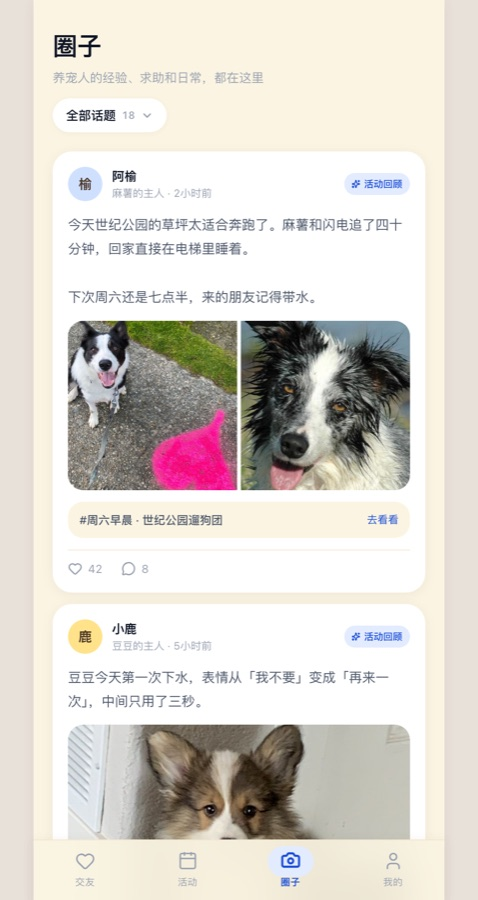
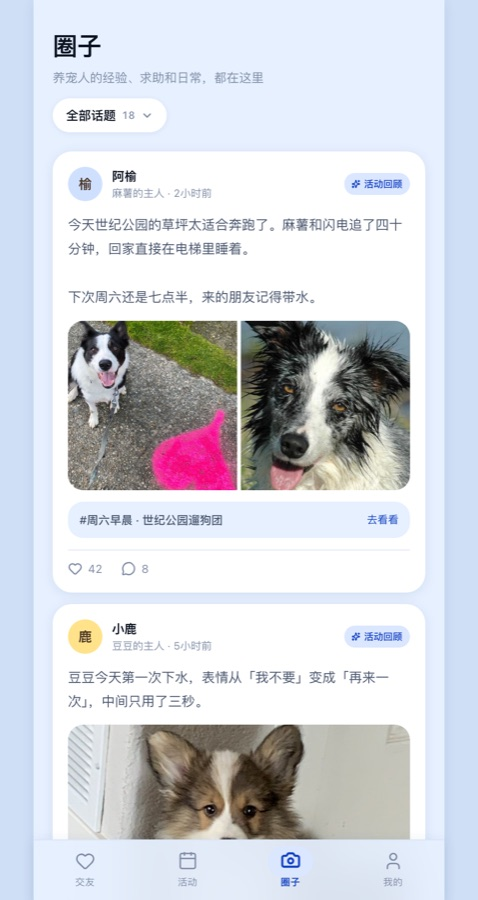
style: 浅蓝画布 + 黄色行动
- 页面画布改为浅蓝 #E6F0FF（狗视觉的另一侧），token 从 cream 改名为 canvas
- 主行动保持饱和黄 #FFC300 + 深色文字（浅黄放浅蓝上会互相淹没）
- 浅黄 #FFE9A8 用作次级底色（选中 chip、软标签）
- 阴影全部换成冷色 rgba(20,55,120,...)，暖褐阴影在蓝底上会发脏
- 底栏改白色浮层，和蓝色画布分层；选中项浅蓝底 + 深蓝图标
- 正文加深到 #0B1220

diff --git a/src/app/globals.css b/src/app/globals.css
@@ -2,20 +2,22 @@
 
 /* ── 设计变量：改这里就能整体换肤 ───────────────────────── */
 @theme {
-  --color-cream: #fbf4e2; /* 页面底：压深一点的奶油，让白卡浮起来 */
-  --color-ink: #0e1526; /* 近黑（冷调），文字对比更强 */
-  --color-ink-soft: #4a5568;
-  --color-ink-mute: #98a1b0;
-  --color-line: #efe3c6;
-  --color-brand: #ffc300; /* 狗能看见的黄：主行动，配深色文字 12:1 */
-  --color-brand-soft: #fff3c4;
-  --color-accent: #1b4fd8; /* 狗能看见的蓝：文字强调 / 链接 / 认证 */
-  --color-accent-soft: #e3ebff;
-  --color-sea: #4da8ff; /* 亮蓝：次要标记 */
-  --color-sea-soft: #e6f2ff;
-  --color-sand: #ffe9a8; /* 高亮底 */
-  --color-mint: #1b4fd8; /* 兼容旧命名 */
-  --color-mint-soft: #e3ebff;
+  --color-canvas: #e6f0ff; /* 页面画布：浅蓝，狗能看见的那一侧 */
+  --color-cream: #e6f0ff; /* 旧名兼容 */
+  --color-ink: #0b1220; /* 近黑，文字对比最强 */
+  --color-ink-soft: #46536b;
+  --color-ink-mute: #7f8da6;
+  --color-line: #d3e1f7;
+  --color-brand: #ffc300; /* 主行动：饱和黄，配深色文字 12:1 */
+  --color-brand-soft: #ffe9a8; /* 次级：浅黄 */
+  --color-accent: #1342c4; /* 文字强调 / 链接 / 认证 */
+  --color-accent-soft: #dbe6ff;
+  --color-sea: #4da8ff;
+  --color-sea-soft: #dcecff;
+  --color-sand: #ffe9a8;
+  --color-mint: #1342c4;
+  --color-mint-soft: #dbe6ff;
+  --color-white: #ffffff;
 
 
   /* ── 设计 token：圆角 / 字号 / 阴影，只保留这几档 ────────── */
@@ -34,8 +36,8 @@
   --text-stat: 21px;
   --text-page: 26px;
 
-  --shadow-soft: 0 1px 6px rgba(80, 60, 40, 0.05);   /* 贴地的小块 */
-  --shadow-card: 0 2px 12px rgba(80, 60, 40, 0.07);  /* 卡片 */
+  --shadow-soft: 0 1px 6px rgba(20, 55, 120, 0.08);   /* 贴地的小块 */
+  --shadow-card: 0 2px 12px rgba(20, 55, 120, 0.10);  /* 卡片 */
   --shadow-float: 0 -8px 40px rgba(0, 0, 0, 0.15);   /* 浮层 */
 
   /* 动效曲线：进场"快起慢收"，退场"慢起快收"，两者不能共用一条 */
@@ -52,7 +54,7 @@
 }
 
 body {
-  background-color: #e8e1d9;
+  background-color: #cfdff5;
   color: var(--color-ink);
   font-family: var(--font-sans);
   -webkit-font-smoothing: antialiased;

diff --git a/src/app/feed/[id]/page.tsx b/src/app/feed/[id]/page.tsx
@@ -17,7 +17,7 @@ export default function PostDetailPage() {
   const post = posts.find((p) => p.id === id);
   if (!post) {
     return (
-      <div className="min-h-dvh bg-cream">
+      <div className="min-h-dvh bg-canvas">
         <SubPageHeader title="帖子" />
         <p className="px-5 pt-16 text-center text-body text-ink-soft">
           这条帖子不存在或已被删除
@@ -30,7 +30,7 @@ export default function PostDetailPage() {
   const meetup = post.meetupId ? getMeetup(post.meetupId) : undefined;
 
   return (
-    <div className="min-h-dvh bg-cream pb-10">
+    <div className="min-h-dvh bg-canvas pb-10">
       <SubPageHeader title="帖子" />
 
       <article className="mt-2 px-5">
@@ -43,7 +43,7 @@ export default function PostDetailPage() {
                 {post.petName}的主人 · {post.timeText}
               </p>
             </div>
-            <span className="flex shrink-0 items-center gap-1 rounded-full bg-cream px-2 py-1 text-micro font-medium text-ink-soft">
+            <span className="flex shrink-0 items-center gap-1 rounded-full bg-canvas px-2 py-1 text-micro font-medium text-ink-soft">
               {TOPIC_EMOJI[post.topic]} {TOPIC_LABEL[post.topic]}
             </span>
           </div>
@@ -72,7 +72,7 @@ export default function PostDetailPage() {
           {meetup && (
             <Link
               href={`/meetups/${meetup.id}`}
-              className="mt-3 block rounded-card bg-cream px-3 py-3"
+              className="mt-3 block rounded-card bg-canvas px-3 py-3"
             >
               <p className="flex items-center gap-1 text-micro text-accent">
                 <Sparkles size={10} strokeWidth={2.6} /> 相关活动

diff --git a/src/app/feed/page.tsx b/src/app/feed/page.tsx
@@ -32,7 +32,7 @@ export default function FeedPage() {
         </p>
       </header>
 
-      <div className="sticky top-0 z-20 -mb-1 bg-cream/95 px-5 pt-3 pb-2 backdrop-blur-xl">
+      <div className="sticky top-0 z-20 -mb-1 bg-canvas/95 px-5 pt-3 pb-2 backdrop-blur-xl">
         <button
           onClick={() => setPickerOpen(true)}
           className="flex items-center gap-1.5 rounded-full bg-white px-3.5 py-2 text-body font-medium shadow-soft tap"
@@ -64,7 +64,7 @@ export default function FeedPage() {
                   <p className="text-cap text-ink-mute">
                     {post.petName}的主人 · {post.timeText}
                     {post.topic !== "daily" && !meetup && (
-                      <span className="ml-1.5 rounded-full bg-cream px-1.5 py-[1px] text-micro font-medium text-ink-soft">
+                      <span className="ml-1.5 rounded-full bg-canvas px-1.5 py-[1px] text-micro font-medium text-ink-soft">
                         {TOPIC_LABEL[post.topic]}
                       </span>
                     )}
@@ -109,7 +109,7 @@ export default function FeedPage() {
               {meetup && (
                 <Link
                   href={`/meetups/${meetup.id}`}
-                  className="mt-3 flex items-center justify-between rounded-card bg-cream px-3 py-2.5"
+                  className="mt-3 flex items-center justify-between rounded-card bg-canvas px-3 py-2.5"
                 >
                   <span className="line-clamp-1 text-note font-medium text-ink-soft">
                     #{meetup.title}

diff --git a/src/components/filter-sheet.tsx b/src/components/filter-sheet.tsx
@@ -136,7 +136,7 @@ export default function FilterSheet({
     <div className="fixed inset-0 z-[60]">
       <div className="backdrop-in absolute inset-0 bg-ink/35 backdrop-blur-[2px]" onClick={onClose} />
 
-      <div className="sheet-in absolute inset-x-0 bottom-0 mx-auto flex max-h-[88vh] max-w-[430px] flex-col rounded-t-hero bg-cream pb-[env(safe-area-inset-bottom)] shadow-float">
+      <div className="sheet-in absolute inset-x-0 bottom-0 mx-auto flex max-h-[88vh] max-w-[430px] flex-col rounded-t-hero bg-canvas pb-[env(safe-area-inset-bottom)] shadow-float">
         <div className="flex items-center justify-between px-5 pt-5 pb-2">
           <h2 className="text-title font-semibold tracking-tight">筛选</h2>
           <div className="flex items-center gap-3">
@@ -210,7 +210,7 @@ export default function FilterSheet({
                     key={s}
                     onClick={() => setScope(s)}
                     className={`shrink-0 rounded-full px-2.5 py-[5px] text-cap font-medium tap ${
-                      on ? "bg-ink text-cream" : "bg-white text-ink-soft"
+                      on ? "bg-ink text-canvas" : "bg-white text-ink-soft"
                     }`}
                   >
                     {s === "all" ? "全部" : SPECIES_LABEL[s]}

diff --git a/src/app/meetups/[id]/page.tsx b/src/app/meetups/[id]/page.tsx
@@ -109,7 +109,7 @@ export default function MeetupDetailPage() {
         </div>
       </div>
 
-      <div className="-mt-4 rounded-t-hero bg-cream px-5 pt-5">
+      <div className="-mt-4 rounded-t-hero bg-canvas px-5 pt-5">
         {/* 主办方 */}
         <div className="flex items-center gap-2.5">
           <Avatar name={meetup.hostName} tint={meetup.type === "brand" ? "#BBD3FF" : "#FFE28A"} size={38} />
@@ -225,7 +225,7 @@ export default function MeetupDetailPage() {
       </div>
 
       {/* 底部操作 */}
-      <div className="fixed inset-x-0 bottom-[62px] z-40 mx-auto max-w-[430px] bg-gradient-to-t from-cream via-cream/95 to-transparent px-4 pt-10 pb-3">
+      <div className="fixed inset-x-0 bottom-[62px] z-40 mx-auto max-w-[430px] bg-gradient-to-t from-canvas via-canvas/95 to-transparent px-4 pt-10 pb-3">
         <button
           onClick={() => join(meetup.id)}
           disabled={full && !isJoined}

diff --git a/src/app/pets/[id]/page.tsx b/src/app/pets/[id]/page.tsx
@@ -100,7 +100,7 @@ export default function PetDetailPage() {
         </div>
       </div>
 
-      <div className="-mt-5 rounded-t-hero bg-cream px-5 pt-5">
+      <div className="-mt-5 rounded-t-hero bg-canvas px-5 pt-5">
         {/* 性格图谱：五个互斥维度，一眼看出偏哪边 */}
         <div className="rounded-card bg-white p-4 shadow-card">
           <div className="flex items-baseline justify-between">
@@ -152,7 +152,7 @@ export default function PetDetailPage() {
                 {pet.traits.map((t) => (
                   <span
                     key={t}
-                    className="rounded-full bg-cream px-2.5 py-1 text-cap font-medium text-ink-soft"
+                    className="rounded-full bg-canvas px-2.5 py-1 text-cap font-medium text-ink-soft"
                   >
                     {t}
                   </span>

diff --git a/src/app/me/pets/page.tsx b/src/app/me/pets/page.tsx
@@ -12,7 +12,7 @@ export default function MyPetsPage() {
   const mine = pets.filter((p) => p.ownerName === "小鹿");
 
   return (
-    <div className="min-h-dvh bg-cream pb-16">
+    <div className="min-h-dvh bg-canvas pb-16">
       <SubPageHeader
         title="我的宠物档案"
         subtitle={`${mine.length} 只已收录`}
@@ -20,7 +20,7 @@ export default function MyPetsPage() {
           <button
             onClick={() => showToast("演示版：暂只支持一只宠物")}
             aria-label="添加宠物"
-            className="hit mt-0.5 grid h-9 w-9 place-items-center rounded-full bg-ink text-cream shadow-md tap"
+            className="hit mt-0.5 grid h-9 w-9 place-items-center rounded-full bg-ink text-canvas shadow-md tap"
           >
             <Plus size={17} strokeWidth={2.6} />
           </button>

diff --git a/src/app/me/health/page.tsx b/src/app/me/health/page.tsx
@@ -54,7 +54,7 @@ export default function HealthPage() {
   const pet = getPet("p1");
 
   return (
-    <div className="min-h-dvh bg-cream pb-16">
+    <div className="min-h-dvh bg-canvas pb-16">
       <SubPageHeader
         title="疫苗与健康记录"
         subtitle={pet ? `${pet.name} · ${pet.ageText}` : undefined}
@@ -76,7 +76,7 @@ export default function HealthPage() {
                 i > 0 ? "border-t border-line/70" : ""
               }`}
             >
-              <span className="mt-0.5 grid h-8 w-8 shrink-0 place-items-center rounded-full bg-cream text-ink-soft">
+              <span className="mt-0.5 grid h-8 w-8 shrink-0 place-items-center rounded-full bg-canvas text-ink-soft">
                 <r.Icon size={14} strokeWidth={2.2} />
               </span>
               <div className="min-w-0 flex-1">

diff --git a/src/app/meetups/page.tsx b/src/app/meetups/page.tsx
@@ -62,14 +62,14 @@ export default function MeetupsPage() {
         </div>
         <Link
           href="/meetups/new"
-          className="hit mt-1 grid h-9 w-9 place-items-center rounded-full bg-ink text-cream shadow-md tap"
+          className="hit mt-1 grid h-9 w-9 place-items-center rounded-full bg-ink text-canvas shadow-md tap"
           aria-label="发起活动"
         >
           <Plus size={18} strokeWidth={2.6} />
         </Link>
       </header>
 
-      <div className="sticky top-0 z-20 -mb-1 bg-cream/95 px-5 pt-3 backdrop-blur-xl">
+      <div className="sticky top-0 z-20 -mb-1 bg-canvas/95 px-5 pt-3 backdrop-blur-xl">
       <div className="no-scrollbar flex gap-2 overflow-x-auto pb-2">
         <button
           onClick={() => setCatOpen(true)}

diff --git a/src/components/picker-sheet.tsx b/src/components/picker-sheet.tsx
@@ -32,7 +32,7 @@ export default function PickerSheet({
     <div className="fixed inset-0 z-[60]">
       <div className="backdrop-in absolute inset-0 bg-ink/35 backdrop-blur-[2px]" onClick={onClose} />
 
-      <div className="sheet-in absolute inset-x-0 bottom-0 mx-auto flex max-h-[80vh] max-w-[430px] flex-col rounded-t-hero bg-cream pb-[env(safe-area-inset-bottom)] shadow-float">
+      <div className="sheet-in absolute inset-x-0 bottom-0 mx-auto flex max-h-[80vh] max-w-[430px] flex-col rounded-t-hero bg-canvas pb-[env(safe-area-inset-bottom)] shadow-float">
         <div className="flex items-center justify-between px-5 pt-5 pb-3">
           <div>
             <h2 className="text-title font-semibold tracking-tight">{title}</h2>

diff --git a/src/components/settings-sheet.tsx b/src/components/settings-sheet.tsx
@@ -38,7 +38,7 @@ export default function SettingsSheet({
     <div className="fixed inset-0 z-[60]">
       <div className="backdrop-in absolute inset-0 bg-ink/35 backdrop-blur-[2px]" onClick={onClose} />
 
-      <div className="sheet-in absolute inset-x-0 bottom-0 mx-auto max-w-[430px] rounded-t-hero bg-cream pb-[env(safe-area-inset-bottom)] shadow-float">
+      <div className="sheet-in absolute inset-x-0 bottom-0 mx-auto max-w-[430px] rounded-t-hero bg-canvas pb-[env(safe-area-inset-bottom)] shadow-float">
         <div className="flex items-center justify-between px-5 pt-5 pb-3">
           <h2 className="text-title font-semibold tracking-tight">设置</h2>
           <button

diff --git a/src/components/tab-bar.tsx b/src/components/tab-bar.tsx
@@ -15,7 +15,7 @@ export default function TabBar() {
   const pathname = usePathname();
 
   return (
-    <nav className="fixed bottom-0 left-1/2 z-50 w-full max-w-[430px] -translate-x-1/2 border-t border-line/70 bg-cream/92 pb-[env(safe-area-inset-bottom)] shadow-card backdrop-blur-xl">
+    <nav className="fixed bottom-0 left-1/2 z-50 w-full max-w-[430px] -translate-x-1/2 border-t border-line/70 bg-canvas/92 pb-[env(safe-area-inset-bottom)] shadow-card backdrop-blur-xl">
       <div className="flex h-[62px] items-stretch">
         {TABS.map(({ href, label, Icon }) => {
           const active =
